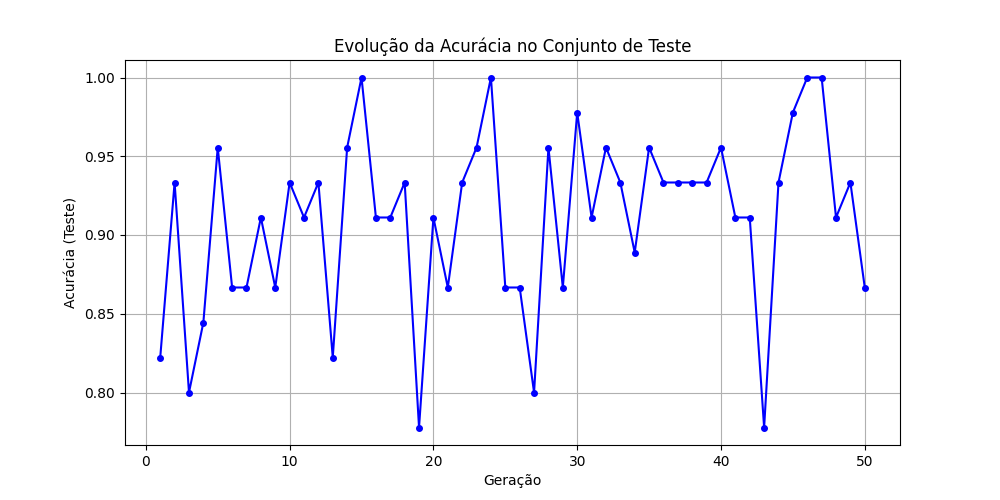
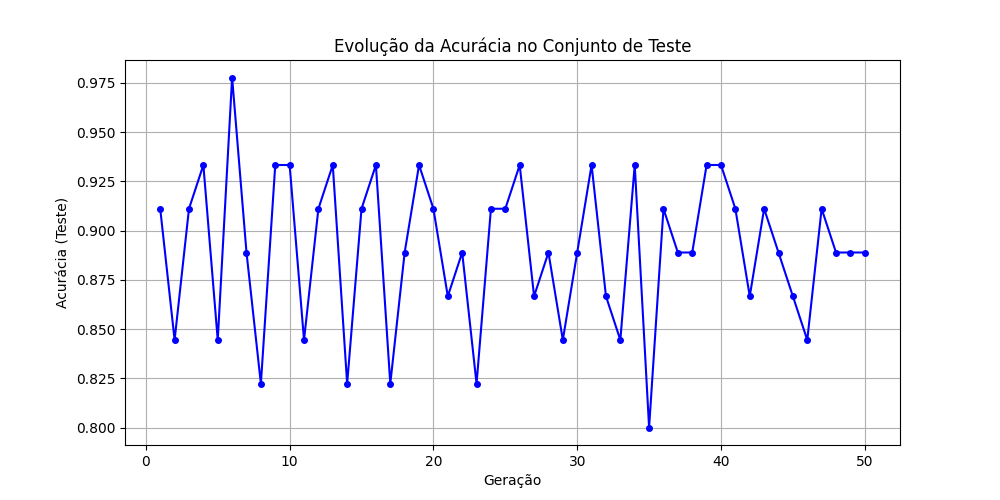
docs: gráficos no README

diff --git a/main.py b/main.py
@@ -157,7 +157,7 @@ def main():
 
     # Divisão treino e teste (30% para teste)
     X_train, X_test, y_train, y_test = train_test_split(
-        X, y, test_size=0.3, shuffle=True, random_state=42
+        X, y, test_size=0.3, shuffle=True, random_state=42, stratify=y
     )
 
     # Executa os dois experimentos solicitados pelo professor

diff --git a/README.md b/README.md
@@ -1,2 +1,8 @@
 # Classificação de Iris
 Implementação de um algoritmo imunológico artificial aplicado à classificação do conjunto de dados Iris, simulando mecanismos do sistema imunológico para resolver problemas de aprendizado de máquina.
+
+## Resultados
+
+![Gráfico de acurácia por geração](./grafico_acuracia_geracao.png)
+
+![Gráfico de impacto do tamanho da população](./grafico_impacto_populacao.png)
